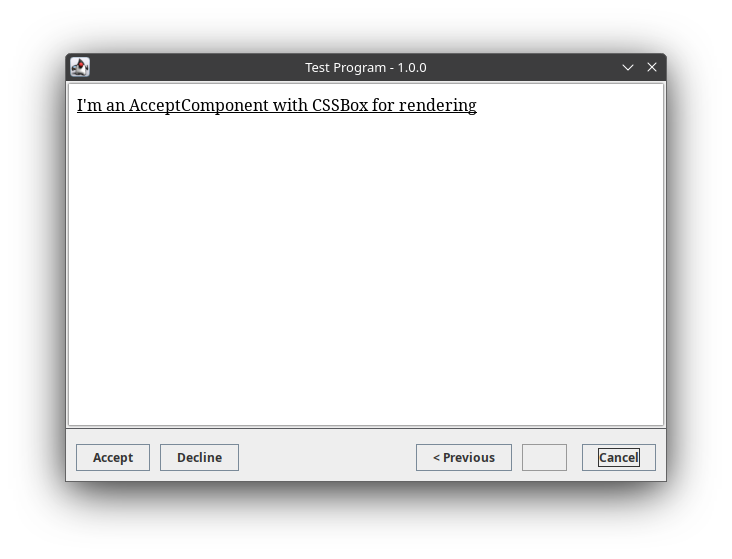
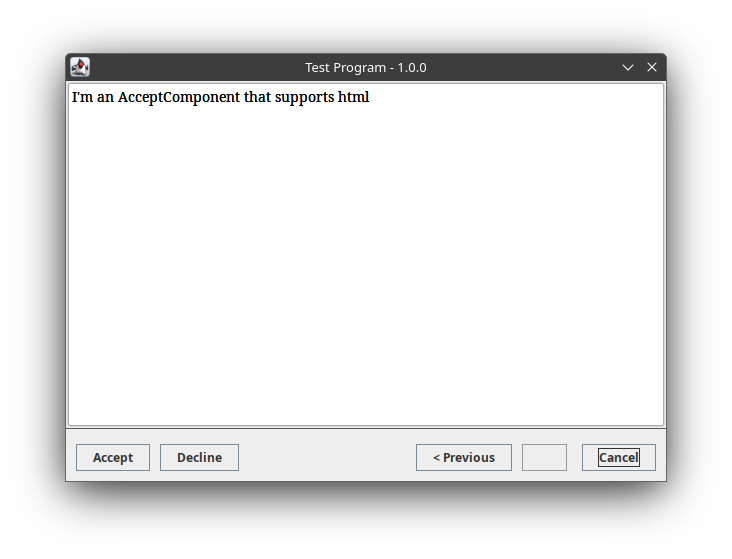
Drop CSSBox

Changed region(s): [[0.0902, 0.1521, 0.6612, 0.2129]]

diff --git a/src/main/java/de/werwolf2303/javasetuptool/components/AcceptComponent.java b/src/main/java/de/werwolf2303/javasetuptool/components/AcceptComponent.java
@@ -1,31 +1,20 @@
 package de.werwolf2303.javasetuptool.components;
 
-import org.fit.cssbox.awt.BrowserCanvas;
-import org.fit.cssbox.css.CSSNorm;
-import org.fit.cssbox.css.DOMAnalyzer;
-import org.fit.cssbox.io.*;
-import org.fit.cssbox.layout.Dimension;
-import org.xml.sax.SAXException;
+import de.werwolf2303.javasetuptool.utils.StreamUtils;
 
 import javax.swing.*;
 import java.awt.*;
 import java.awt.event.AdjustmentEvent;
 import java.awt.event.AdjustmentListener;
-import java.awt.event.ComponentAdapter;
-import java.awt.event.ComponentEvent;
-import java.io.ByteArrayInputStream;
 import java.io.IOException;
 import java.net.URL;
-import java.nio.charset.StandardCharsets;
 import java.util.HashMap;
 
 /**
- * This component contains an "Accept" and "Decline" button, that can be used for license agreements.
+ * This component contains an "Accept" and "Decline" button, and an HTML area that can be used for license agreements.
  * <br><img alt="AcceptComponent" src="./doc-files/AcceptComponent.png" />
  */
 public class AcceptComponent extends JPanel implements Component {
-    DocumentSource docSource;
-    DOMSource domSource;
     JScrollPane pane;
     JEditorPane content;
     boolean scrolldown = false;
@@ -35,8 +24,7 @@ public class AcceptComponent extends JPanel implements Component {
     JFrame frame;
 
     boolean didAccept = false;
-    boolean initialized = false;
-    private BrowserCanvas browserCanvas;
+    private JEditorPane editorPane;
 
     AdjustmentListener listener = new AdjustmentListener() {
         @Override
@@ -54,6 +42,10 @@ public class AcceptComponent extends JPanel implements Component {
 
     {
         setLayout(new BoxLayout(this, BoxLayout.Y_AXIS));
+
+        editorPane = new JEditorPane();
+        editorPane.setBackground(new Color(0, 0, 0, 0));
+        editorPane.setContentType("text/html");
     }
 
 
@@ -64,9 +56,7 @@ public class AcceptComponent extends JPanel implements Component {
      * @throws IOException - throws if the document cannot be loaded
      */
     public AcceptComponent(String html) throws IOException {
-        docSource = new StreamDocumentSource(new ByteArrayInputStream(html.getBytes(StandardCharsets.UTF_8)), new URL("http://localhost"), "text/html");
-        domSource = new DefaultDOMSource(docSource);
-        createBrowserCanvas(domSource, docSource);
+        editorPane.setText(html);
     }
 
     /**
@@ -76,9 +66,7 @@ public class AcceptComponent extends JPanel implements Component {
      * @throws IOException - throws if the document cannot be loaded
      */
     public AcceptComponent(URL url) throws IOException {
-        docSource = new DefaultDocumentSource(url);
-        domSource = new DefaultDOMSource(docSource);
-        createBrowserCanvas(domSource, docSource);
+        editorPane.setText(StreamUtils.inputStreamToString(url.openStream()));
     }
 
     @Override
@@ -114,18 +102,7 @@ public class AcceptComponent extends JPanel implements Component {
         content.setEditable(false);
         pane = new JScrollPane(content);
         add(pane, BorderLayout.CENTER);
-        addComponentListener(new ComponentAdapter() {
-            @Override
-            public void componentShown(ComponentEvent e) {
-                if(!initialized) {
-                    initialized = true;
-                }else return;
-                browserCanvas.createLayout(new Dimension(pane.getViewport().getWidth(), pane.getViewport().getHeight()));
-                revalidate();
-                repaint();
-            }
-        });
-        pane.setViewportView(browserCanvas);
+        pane.setViewportView(editorPane);
     }
 
     @Override
@@ -144,23 +121,6 @@ public class AcceptComponent extends JPanel implements Component {
         nextButton.setEnabled(true);
         custom1.setVisible(false);
         custom2.setVisible(false);
-    }
-
-
-    private void createBrowserCanvas(DOMSource domSource, DocumentSource docSource) {
-        try {
-            DOMAnalyzer da = new DOMAnalyzer(domSource.parse(), docSource.getURL());
-            da.attributesToStyles();
-            da.addStyleSheet(null, CSSNorm.stdStyleSheet(), DOMAnalyzer.Origin.AGENT);
-            da.addStyleSheet(null, CSSNorm.userStyleSheet(), DOMAnalyzer.Origin.AGENT);
-            da.getStyleSheets();
-            browserCanvas = new BrowserCanvas(da.getRoot(), da, docSource.getURL());
-            browserCanvas.repaint();
-        } catch (SAXException e) {
-            throw new RuntimeException(e);
-        } catch (IOException e) {
-            throw new RuntimeException(e);
-        }
     }
 
     @Override

diff --git a/src/main/java/de/werwolf2303/javasetuptool/components/HTMLComponent.java b/src/main/java/de/werwolf2303/javasetuptool/components/HTMLComponent.java
@@ -1,19 +1,11 @@
 package de.werwolf2303.javasetuptool.components;
 
-import org.fit.cssbox.awt.BrowserCanvas;
-import org.fit.cssbox.css.CSSNorm;
-import org.fit.cssbox.css.DOMAnalyzer;
-import org.fit.cssbox.io.*;
-import org.fit.cssbox.layout.Dimension;
-import org.xml.sax.SAXException;
+import de.werwolf2303.javasetuptool.utils.StreamUtils;
 
 import javax.swing.*;
-import java.awt.event.ComponentAdapter;
-import java.awt.event.ComponentEvent;
-import java.io.ByteArrayInputStream;
+import java.awt.*;
 import java.io.IOException;
 import java.net.URL;
-import java.nio.charset.StandardCharsets;
 import java.util.HashMap;
 
 /**
@@ -22,19 +14,21 @@ import java.util.HashMap;
  * <br> <img alt="HTMLComponent" src="./doc-files/HTMLComponent.png" />
  */
 public class HTMLComponent extends JScrollPane implements Component {
-    DocumentSource docSource;
-    DOMSource domSource;
-
     boolean initialized = false;
 
     private JPanel contentPanel;
 
-    private BrowserCanvas browserCanvas;
+    private JEditorPane editorPane;
 
     {
         contentPanel = new JPanel();
         contentPanel.setLayout(new BoxLayout(contentPanel, BoxLayout.Y_AXIS));
         contentPanel.add(this);
+
+        editorPane = new JEditorPane();
+        editorPane.setBackground(new Color(0, 0, 0, 0));
+        editorPane.setContentType("text/html");
+        setViewportView(editorPane);
     }
 
     /**
@@ -44,10 +38,7 @@ public class HTMLComponent extends JScrollPane implements Component {
      * @throws IOException - throws if the HTML could not be loaded
      */
     public HTMLComponent(String html) throws IOException {
-        docSource = new StreamDocumentSource(new ByteArrayInputStream(html.getBytes(StandardCharsets.UTF_8)), new URL("http://localhost"), "text/html");
-        domSource = new DefaultDOMSource(docSource);
-        createBrowserCanvas(domSource, docSource);
-        setViewportView(browserCanvas);
+        editorPane.setText(html);
     }
 
     /**
@@ -57,10 +48,7 @@ public class HTMLComponent extends JScrollPane implements Component {
      * @throws IOException - throws if the url could not be loaded
      */
     public HTMLComponent(URL url) throws IOException {
-        docSource = new DefaultDocumentSource(url);
-        domSource = new DefaultDOMSource(docSource);
-        createBrowserCanvas(domSource, docSource);
-        setViewportView(browserCanvas);
+        editorPane.setText(StreamUtils.inputStreamToString(url.openStream()));
     }
 
     @Override
@@ -75,17 +63,6 @@ public class HTMLComponent extends JScrollPane implements Component {
 
     @Override
     public void init(JFrame frame, int width, int height, HashMap<String, Object> setupVariables) {
-        contentPanel.addComponentListener(new ComponentAdapter() {
-            @Override
-            public void componentShown(ComponentEvent e) {
-                if(!initialized) {
-                    initialized = true;
-                }else return;
-                browserCanvas.createLayout(new Dimension(getViewport().getWidth(), getViewport().getHeight()));
-                revalidate();
-                repaint();
-            }
-        });
     }
 
     @Override
@@ -111,21 +88,5 @@ public class HTMLComponent extends JScrollPane implements Component {
     @Override
     public JPanel getContainer() {
         return contentPanel;
-    }
-
-    private void createBrowserCanvas(DOMSource domSource, DocumentSource docSource) {
-        try {
-            DOMAnalyzer da = new DOMAnalyzer(domSource.parse(), docSource.getURL());
-            da.attributesToStyles();
-            da.addStyleSheet(null, CSSNorm.stdStyleSheet(), DOMAnalyzer.Origin.AGENT);
-            da.addStyleSheet(null, CSSNorm.userStyleSheet(), DOMAnalyzer.Origin.AGENT);
-            da.getStyleSheets();
-            browserCanvas = new BrowserCanvas(da.getRoot(), da, docSource.getURL());
-            browserCanvas.repaint();
-        } catch (SAXException e) {
-            throw new RuntimeException(e);
-        } catch (IOException e) {
-            throw new RuntimeException(e);
-        }
     }
 }

diff --git a/src/main/java/de/werwolf2303/javasetuptool/test/Test.java b/src/main/java/de/werwolf2303/javasetuptool/test/Test.java
@@ -1,11 +1,12 @@
 package de.werwolf2303.javasetuptool.test;
 
 import de.werwolf2303.javasetuptool.Setup;
-import de.werwolf2303.javasetuptool.components.*;
-import de.werwolf2303.javasetuptool.components.Component;
-import javax.swing.*;
+import de.werwolf2303.javasetuptool.components.AcceptComponent;
+import de.werwolf2303.javasetuptool.components.FeatureSelectionComponent;
+import de.werwolf2303.javasetuptool.components.HTMLComponent;
+import de.werwolf2303.javasetuptool.components.InstallProgressComponent;
+
 import java.io.IOException;
-import java.util.HashMap;
 
 public class Test {
 
@@ -15,8 +16,8 @@ public class Test {
                 .setProgramName("Test Program")
                 .setProgramVersion("1.0.0")
                 .addComponents(
-                        new AcceptComponent("<a>I'm an AcceptComponent with CSSBox for rendering</a>"),
-                        new HTMLComponent("<a>I'm an HTMLComponent with CSSBox for rendering</a>"),
+                        new AcceptComponent("<a>I'm an AcceptComponent that supports html</a>"),
+                        new HTMLComponent("<a>I'm an HTMLComponent that supports html</a>"),
                         new FeatureSelectionComponent()
                                 .addFeature(new FeatureSelectionComponent.FeatureBuilder()
                                         .setName("We").build())

diff --git a/src/main/java/de/werwolf2303/javasetuptool/components/InstallProgressComponent.java b/src/main/java/de/werwolf2303/javasetuptool/components/InstallProgressComponent.java
@@ -42,7 +42,7 @@ public class InstallProgressComponent implements Component {
      * >>> IMPORTANT!! <<<
      * DO NOT edit this method OR call it in your code!
      *
-     * 
+     * @noinspection ALL
      */
     private void $$$setupUI$$$() {
         createUIComponents();
@@ -59,6 +59,9 @@ public class InstallProgressComponent implements Component {
         contentPanel.add(spacer1, new GridConstraints(2, 0, 1, 1, GridConstraints.ANCHOR_CENTER, GridConstraints.FILL_VERTICAL, 1, GridConstraints.SIZEPOLICY_FIXED, new Dimension(-1, 20), new Dimension(-1, 20), new Dimension(-1, 20), 0, false));
     }
 
+    /**
+     * @noinspection ALL
+     */
     public JComponent $$$getRootComponent$$$() {
         return contentPanel;
     }

diff --git a/src/main/java/de/werwolf2303/javasetuptool/components/SetupTypeComponent.java b/src/main/java/de/werwolf2303/javasetuptool/components/SetupTypeComponent.java
@@ -1,6 +1,7 @@
 package de.werwolf2303.javasetuptool.components;
 
 import de.werwolf2303.javasetuptool.swingextensions.ComponentViewManager;
+
 import javax.swing.*;
 import java.awt.*;
 import java.util.ArrayList;
